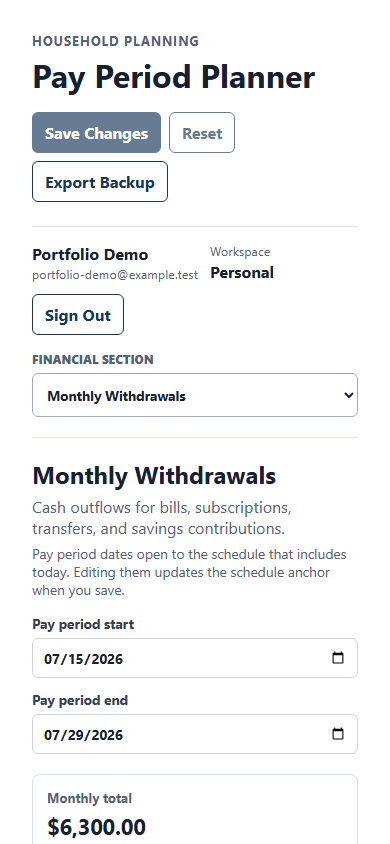
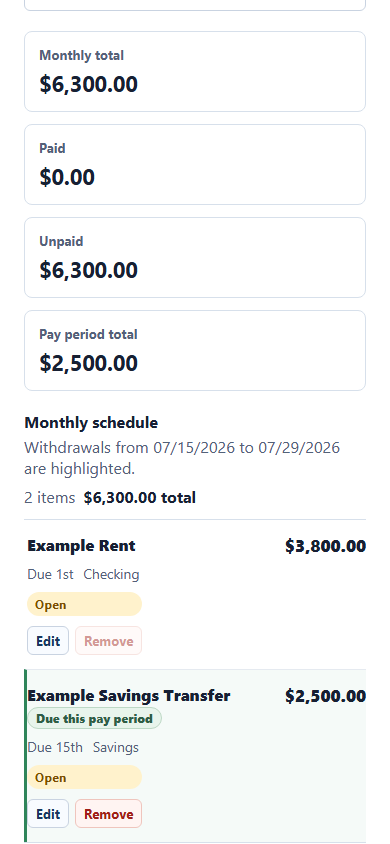
docs: refresh responsive portfolio evidence

diff --git a/frontend/portfolio/portfolio-evidence.spec.ts b/frontend/portfolio/portfolio-evidence.spec.ts
@@ -44,6 +44,7 @@ test('captures the synthetic portfolio walkthrough', async ({ page }) => {
     .getByRole('combobox', { name: 'Financial section' })
     .selectOption('monthly-withdrawals');
   await expect(page.getByRole('heading', { name: 'Monthly Withdrawals' })).toBeVisible();
+  await page.getByRole('heading', { name: 'Monthly schedule' }).scrollIntoViewIfNeeded();
   await page.screenshot({
     fullPage: false,
     path: path.join(evidenceDirectory, 'monthly-mobile.png'),

diff --git a/docs/portfolio-case-study.md b/docs/portfolio-case-study.md
@@ -38,8 +38,8 @@ them as planning estimates.
 ### 3. Keep planning usable on a phone
 
 At compact widths, grouped sidebar navigation becomes one section selector,
-account controls wrap without overlap, and wide financial tables stay inside
-keyboard-accessible scroll regions.
+account controls wrap without overlap, and financial tables reflow into labeled
+rows without page-level or contained horizontal scrolling.
 
 ![Pay Period Planner monthly planning workflow at a 390 pixel mobile viewport](images/portfolio/monthly-mobile.png)
 